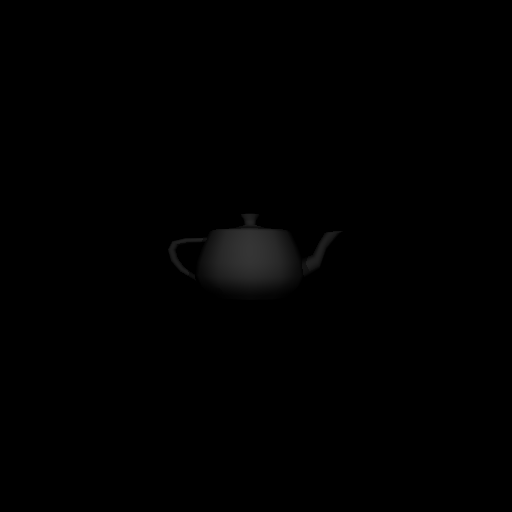
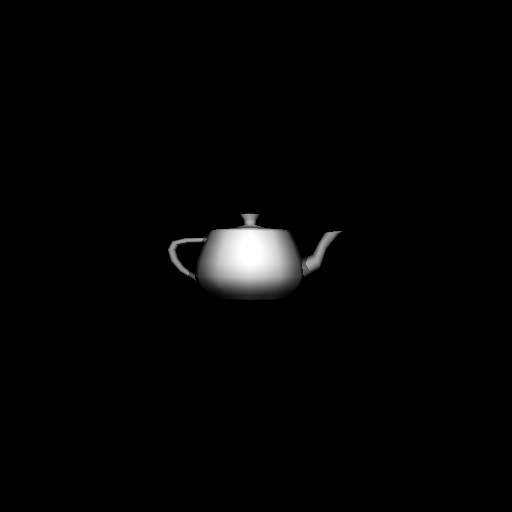
BSP-Accelerator finally working. Very slow with a large MAX_DEPTH... Todo: Change split axis in each iteration.

Changed region(s): [[0.3125, 0.4062, 0.6562, 0.5938]]

diff --git a/rt/src/rt/testscenes/AccelerationTest.java b/rt/src/rt/testscenes/AccelerationTest.java
@@ -68,8 +68,8 @@ public class AccelerationTest extends Scene {
 		root = intersectableList;
 		
 		// Light sources
-		LightGeometry pl1 = new PointLight(new Vector3f(.5f, .5f, 2.f), new Spectrum(1.f, 1.f, 1.f));
-		LightGeometry pl2 = new PointLight(new Vector3f(-.75f, .75f, 2.f), new Spectrum(1.f, 1.f, 1.f));
+		LightGeometry pl1 = new PointLight(new Vector3f(.5f, .5f, 2.f), new Spectrum(5.f, 5.f, 5.f));
+		LightGeometry pl2 = new PointLight(new Vector3f(-.75f, .75f, 2.f), new Spectrum(5.f, 5.f, 5.f));
 		lightList = new LightList();
 		lightList.add(pl1);
 		lightList.add(pl2);

diff --git a/rt/src/rt/intersectables/AxisAlignedBoundingBox.java b/rt/src/rt/intersectables/AxisAlignedBoundingBox.java
@@ -82,6 +82,10 @@ public class AxisAlignedBoundingBox{
 		return false;
 	}
 	
+	/*
+	 * Returns tMin and tMax
+	 * @return float[2] [tMin, tMax]
+	 */
 	public float[] intersect(Ray r){
 		float t_xMin, t_xMax, t_yMin, t_yMax ,t_zMin, t_zMax;
 		if(r.direction.x >= 0){
